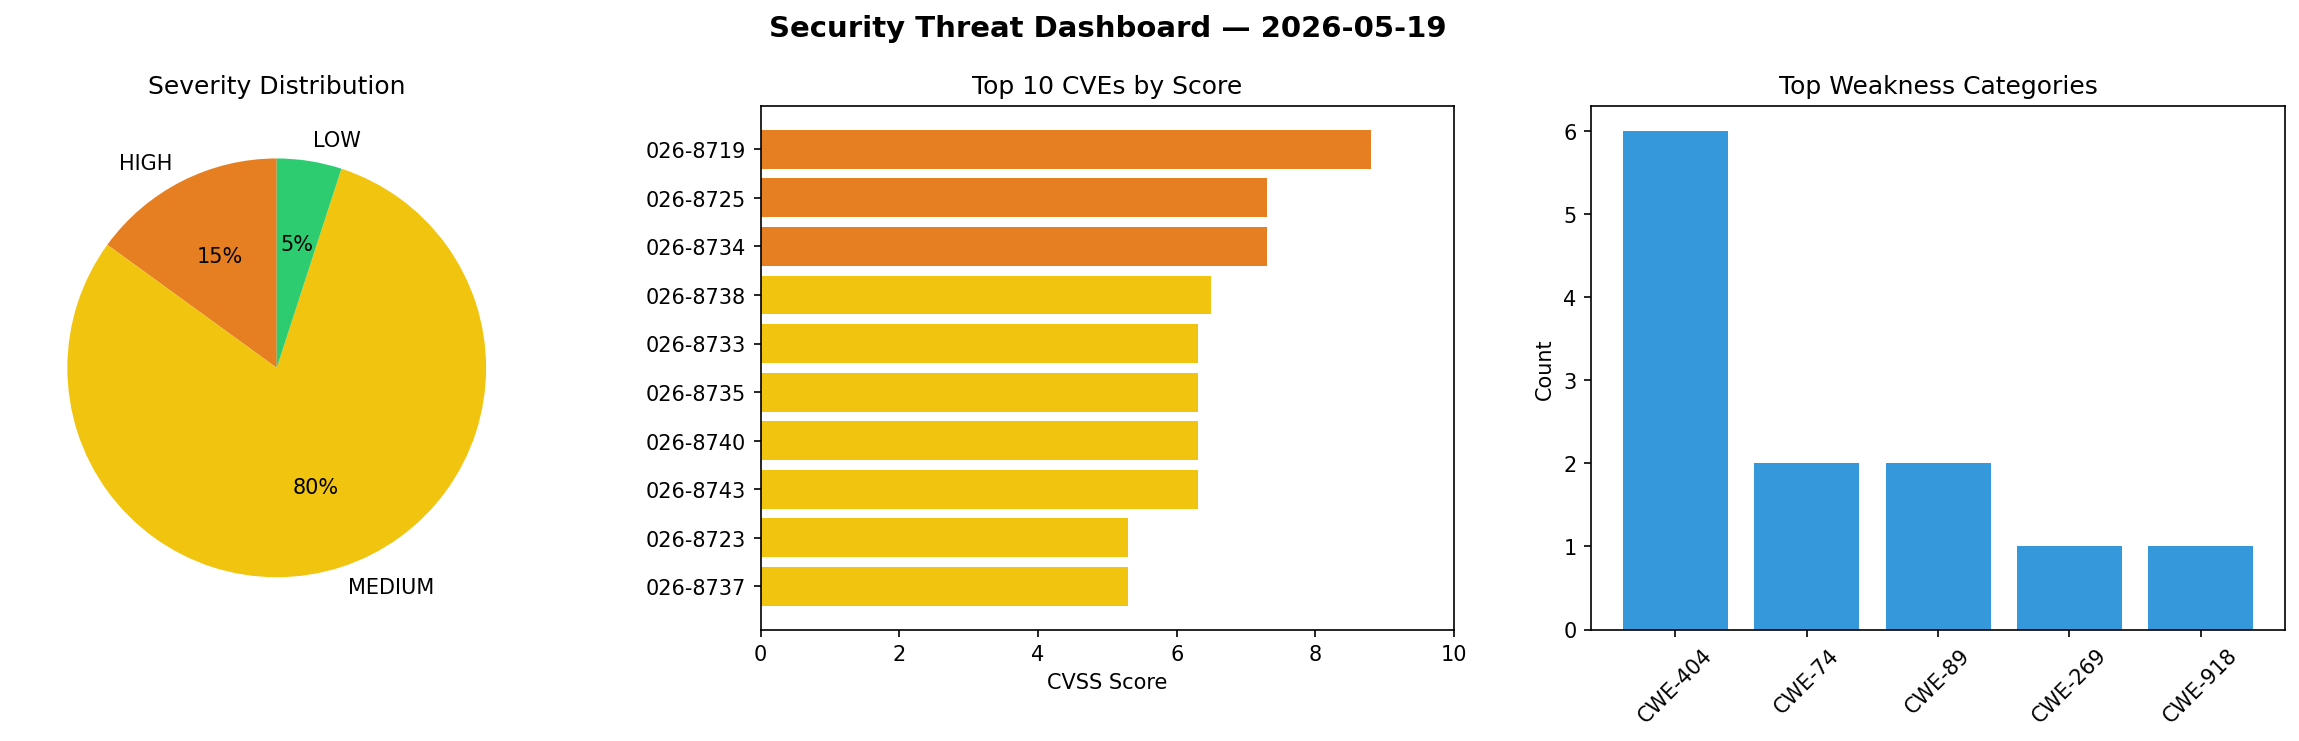
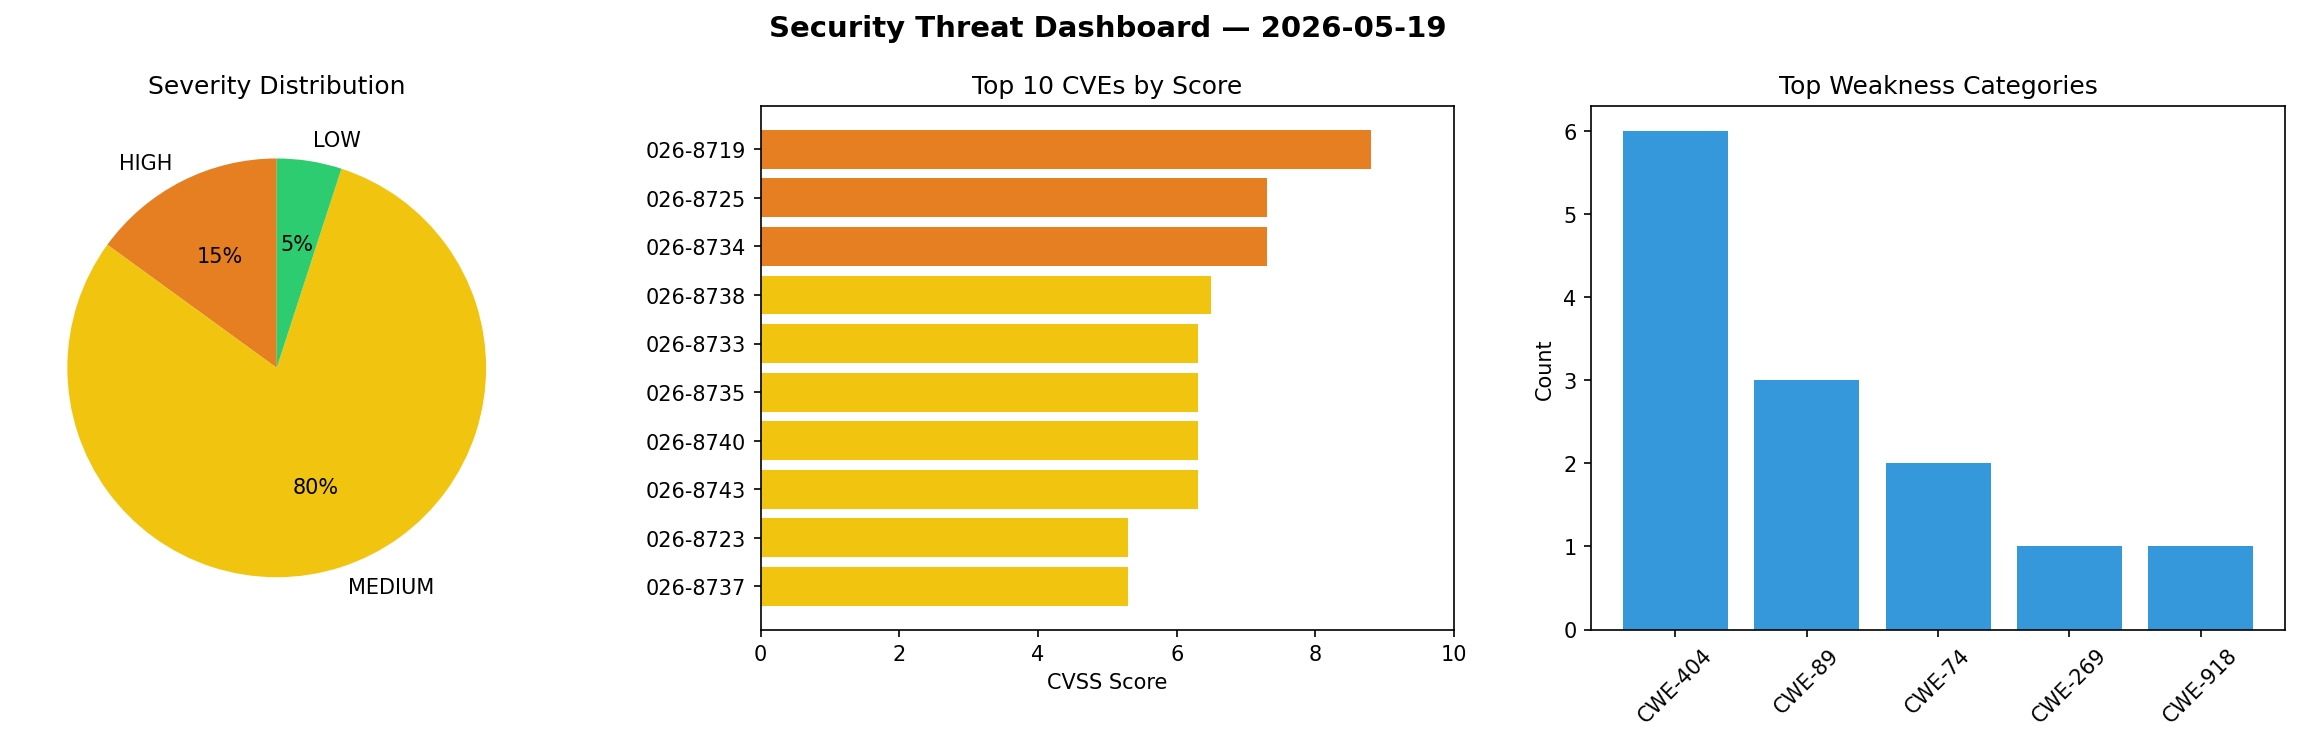
daily-experiments: security scan 2026-05-19T21:51

Changed region(s): [[0.7412, 0.4966, 0.8338, 0.6518], [0.8338, 0.8691, 0.8647, 0.9001], [0.7721, 0.8691, 0.803, 0.9001]]

diff --git a/logs/2026-05-19.md b/logs/2026-05-19.md
@@ -1,6 +1,6 @@
 # Security Scan Report — 2026-05-19
 
-**Scan ID:** `d77958d902` | **CVEs:** 20 | **Threat Index:** 237.7
+**Scan ID:** `01073f1527` | **CVEs:** 20 | **Threat Index:** 237.7
 
 ![Dashboard](2026-05-19_dashboard.png)
 
@@ -29,8 +29,8 @@
 | CWE | Count |
 |-----|-------|
 | CWE-404 | 6 |
+| CWE-89 | 3 |
 | CWE-74 | 2 |
-| CWE-89 | 2 |
 | CWE-269 | 1 |
 | CWE-918 | 1 |
 